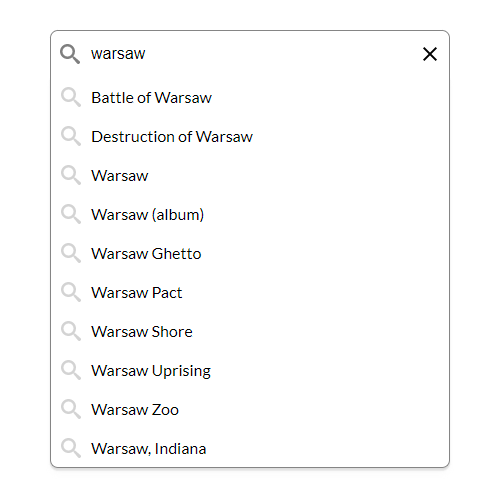
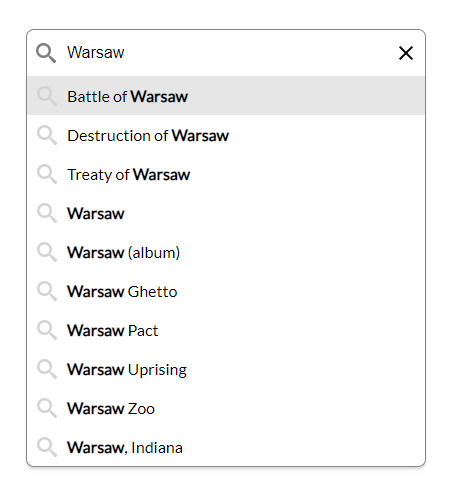
update examlpe

diff --git a/docs/index.html b/docs/index.html
@@ -55,7 +55,7 @@
               .map((el) => {
                 return `
                   <li class="autocomplete-item loupe" role="option" aria-selected="false" tabindex="-1">
-                    <p>${el.title.replace(regex, (str) => `${str}`)}</p>
+                    <p>${el.title.replace(regex, (str) => `<b>${str}</b>`)}</p>
                     <!-- <small>${el.snippet}</small> -->
                   </li>`;
               });

diff --git a/sources/index.html b/sources/index.html
@@ -55,7 +55,7 @@
               .map((el) => {
                 return `
                   <li class="autocomplete-item loupe" role="option" aria-selected="false" tabindex="-1">
-                    <p>${el.title.replace(regex, (str) => `${str}`)}</p>
+                    <p>${el.title.replace(regex, (str) => `<b>${str}</b>`)}</p>
                     <!-- <small>${el.snippet}</small> -->
                   </li>`;
               });
